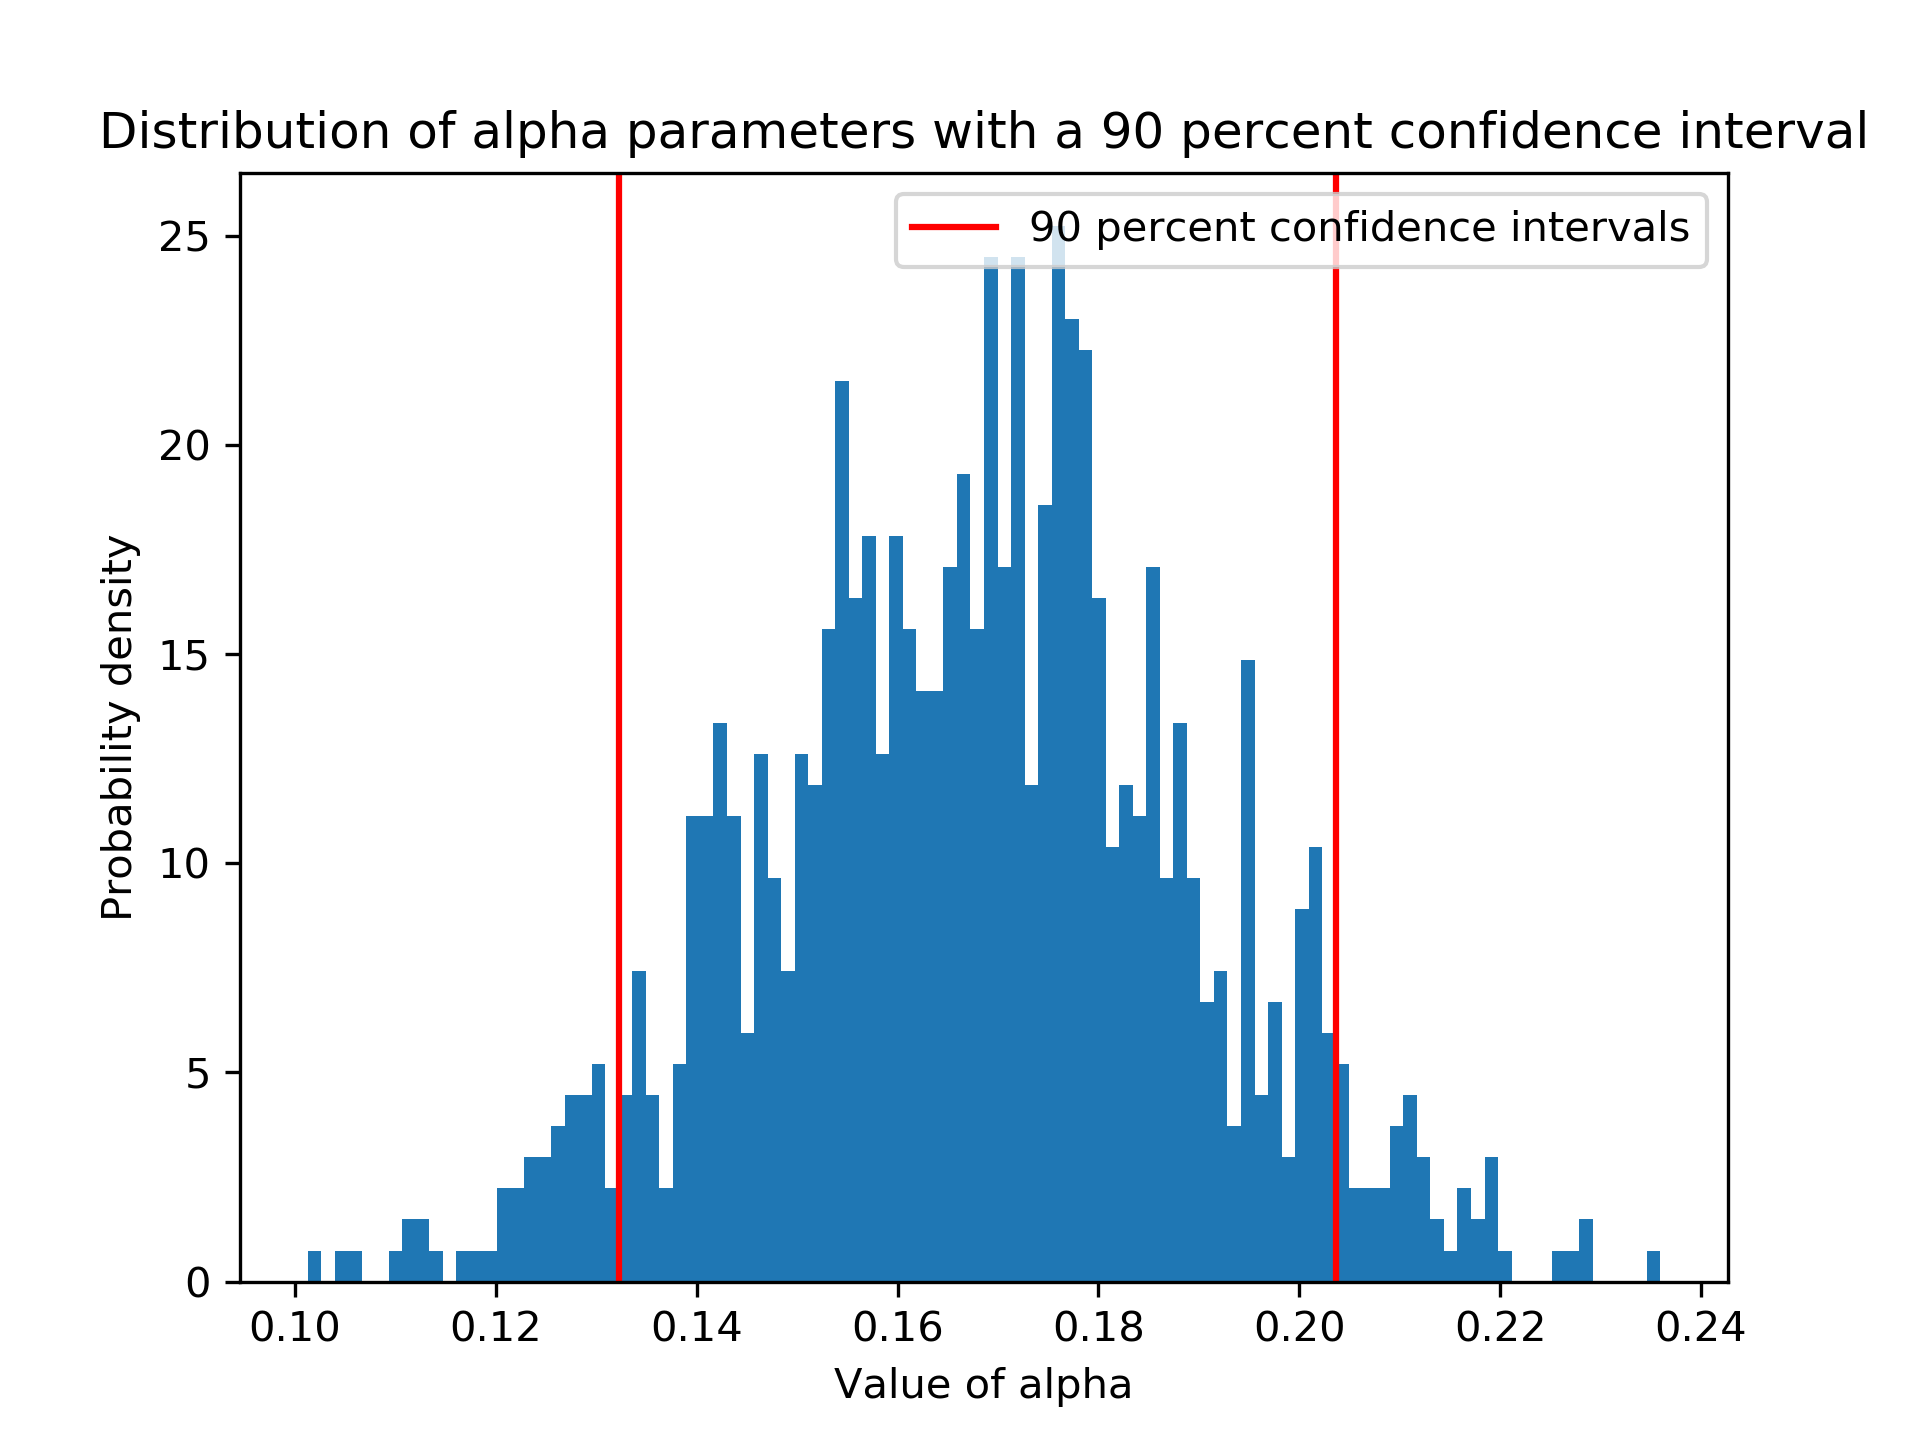
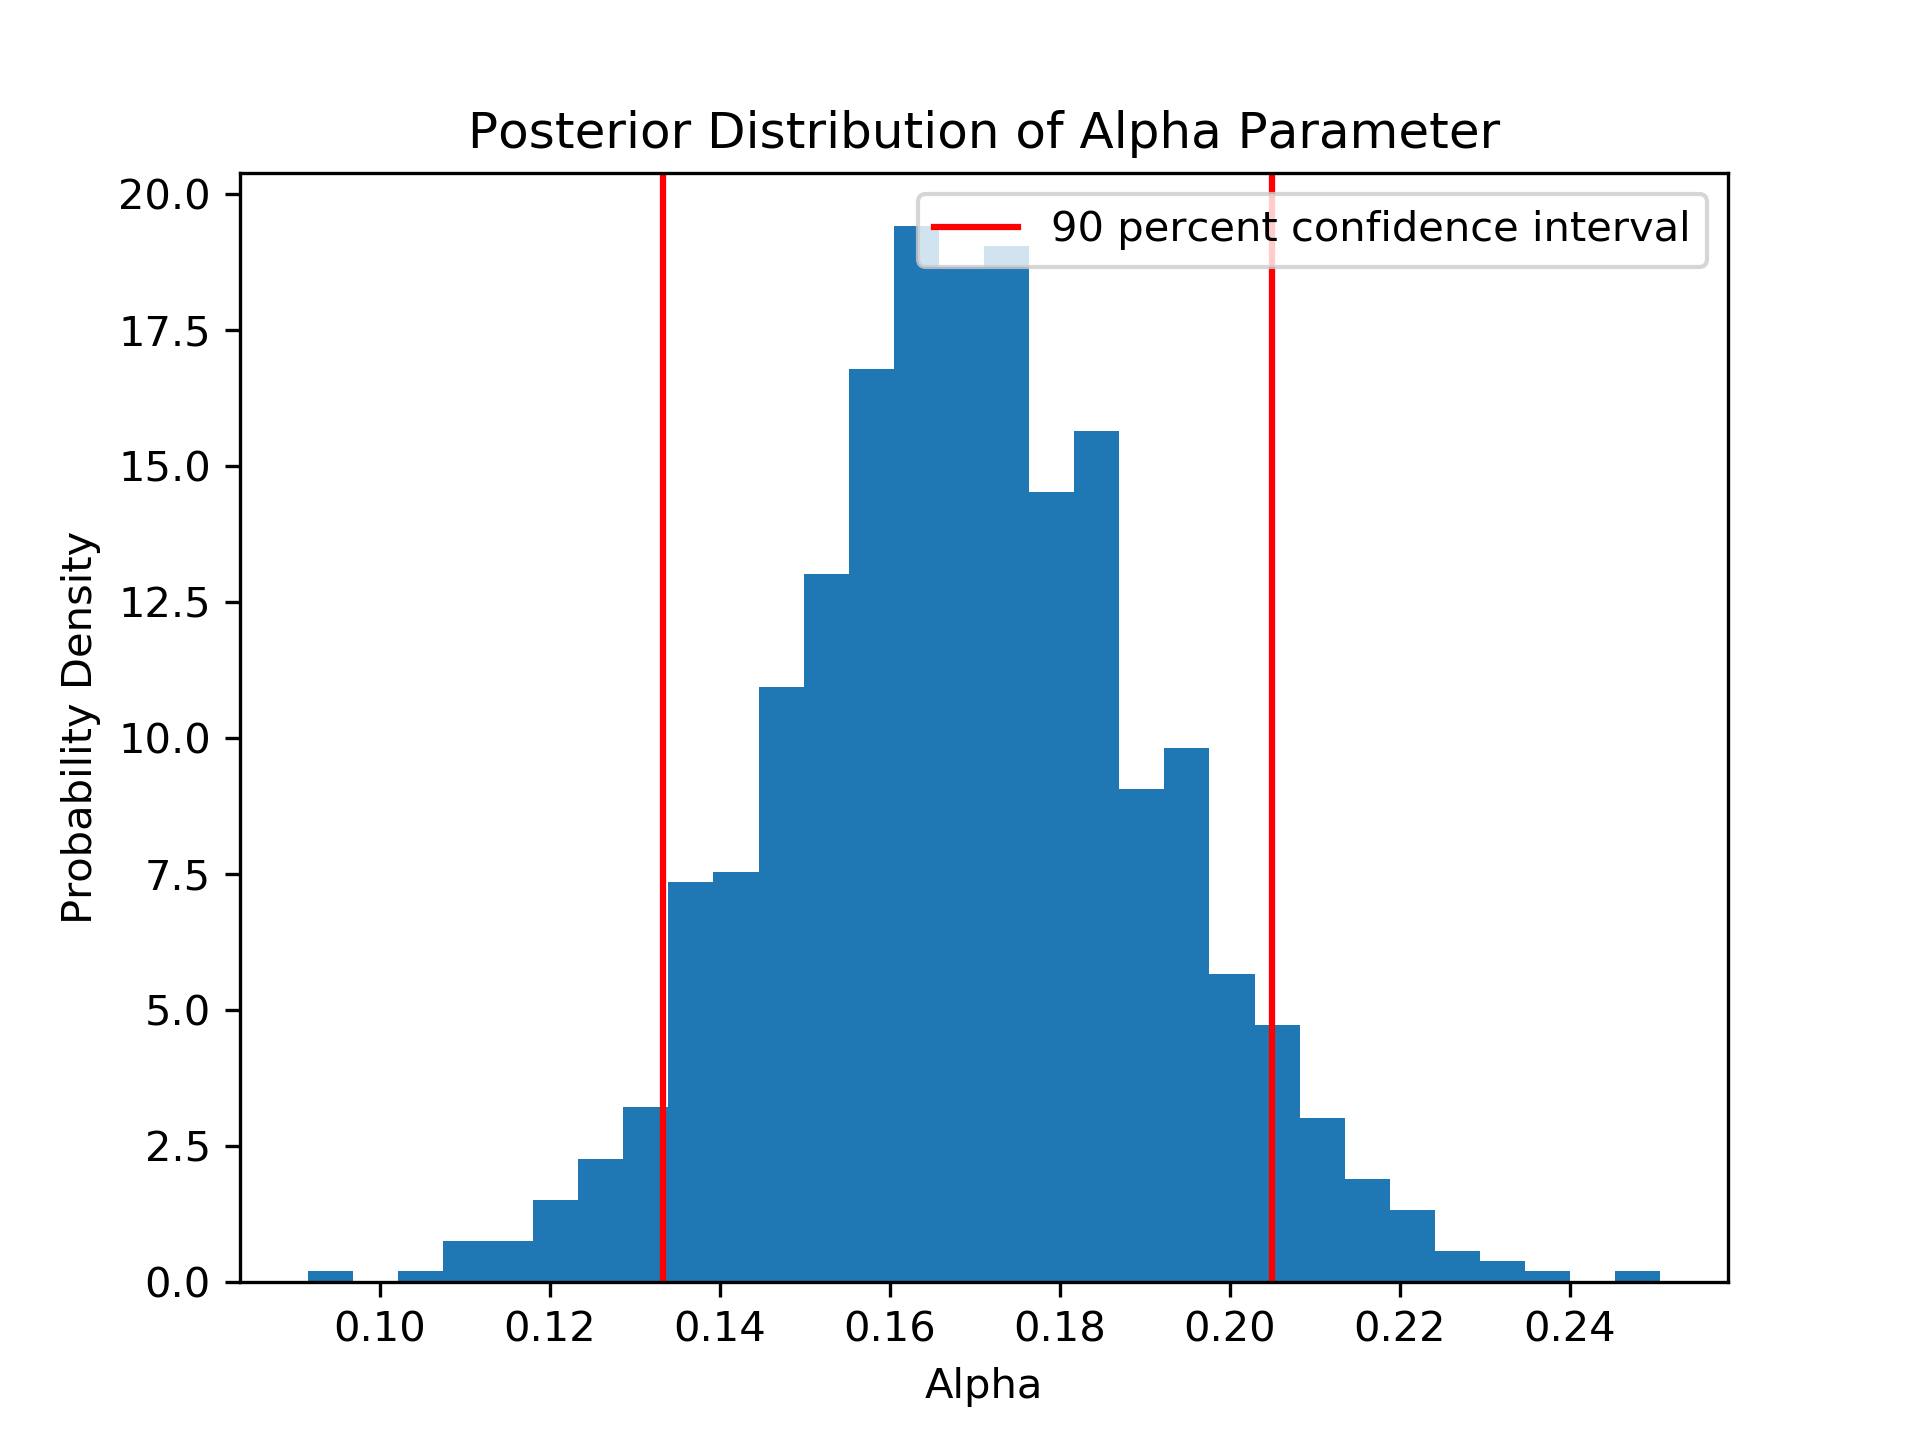
edited figures

diff --git a/plotting_functions.py b/plotting_functions.py
@@ -28,7 +28,7 @@ def plot_data():
     ax = fig1.add_subplot(111)
    
     ax.plot(x_cow, y_cow, color = 'red', label = 'Cows')  # plotting cow data
-    ax.set_xlabel('Years', fontsize = 20)
+    ax.set_xlabel('Time [yrs]', fontsize = 20)
     ax.set_ylabel('Number of Cows', fontsize = 20)
 
     ax2 = ax.twinx()
@@ -289,6 +289,12 @@ def without_acs_uncertainty():
 def misfit_plot(old):
     '''
     Produces a misfit plot
+
+    Parameters
+    ----------
+    old: bool
+        If intial is true will plot misfit of old model, otherwise will plot misfit
+        of improved model
     '''
 
     t = np.arange(1980,2030,step = 0.1)
@@ -302,14 +308,12 @@ def misfit_plot(old):
     C = LPM_Model(t,*parameters)
 
 
-    # Producing misfit plot
-    # Pre-allocating array
-    misfit=[]
+    misfit=[] # stores misfit values
 
     # Interpolate concentration at data points for model
     C=np.interp(t0,t,C)
 
-    # Append differences to misfit array
+    # Calculate misfits
     for i in range(len(C)):
         misfit.append(c0[i]-C[i])
 
@@ -337,7 +341,6 @@ def alpha_distribution():
     Notes: 
     ----------
     No parameters take, calls other functions. Prints confidence interval of alpha to screen
-
     """
     alpha_list = []
     #looping through 10 iterations of posterior_pars() uncertainty values
@@ -350,14 +353,16 @@ def alpha_distribution():
     
     ci = confidence_int(alpha_list, "alpha") #confidence interval for alpha
     f, ax = plt.subplots(1,1)
+
     #plotting histogram and 90 percent conf int for alpha
-    ax.hist(alpha_list, bins = 100, density = True)
+    ax.hist(alpha_list, bins = 30, density = True)
     ax.axvline(x=ci[0], color = 'r')
-    ax.axvline(x=ci[1], color = 'r', label = '90 percent confidence intervals')
-    plt.ylabel('Probability density')
-    plt.xlabel('Value of alpha')
+    ax.axvline(x=ci[1], color = 'r', label = '90 percent confidence interval')
+    plt.ylabel('Probability Density')
+    plt.xlabel('Alpha')
     ax.legend()
-    ax.set_title('Distribution of alpha parameters with a 90 percent confidence interval')
+    ax.set_title('Posterior Distribution of Alpha Parameter')
+
     #plt.show()
     f.savefig('Plots'+ os.sep + 'Alpha_distribution.png', dpi = 300)
     plt.close(f)

diff --git a/main.py b/main.py
@@ -9,7 +9,7 @@ from model_functions import *
 from testing_functions import *
 from plotting_functions import *
 
-convergence_analysis()
+
 # Plotting the data
 plot_data()
 

diff --git a/testing_functions.py b/testing_functions.py
@@ -377,4 +377,3 @@ def test_solvedCdt():
 
     print("solve_dCdt tests passed \n")
 
-test_solvedCdt()
